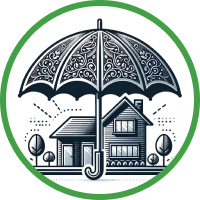
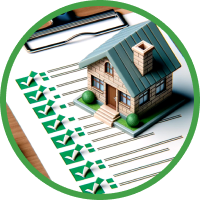
:lipstick: styling done

diff --git a/src/app/components/ServiceSection/ServiceSection.tsx b/src/app/components/ServiceSection/ServiceSection.tsx
@@ -2,6 +2,8 @@ import { theme } from 'antd';
 import Card from '@/app/components/common/Card';
 import Image from 'next/image';
 import styles from './serviceSection.module.css';
+import global from '@/app/page.module.css';
+import { CSSProperties } from 'react';
 
 const { useToken } = theme;
 
@@ -11,41 +13,53 @@ type ServiceItemProps = {
   image: string;
   highlightCtaTextIndex: number;
   ctaText: string[];
+  className?: string;
 };
 
 function ServiceItem(props: ServiceItemProps) {
   const { token } = useToken();
   const descriptionSplitted = props.description.split('\n');
   return (
-    <div className={`${styles.alignCenter} ${styles.marginH}`}>
-      <div className={styles.alignCenter}>
-        <Image
-          src={props.image}
-          alt={props.title}
-          width={60}
-          height={60}
-          priority
-          unoptimized={true}
-        />
-        <h3>{props.title}</h3>
+    <>
+      {props.title !== 'Gestion complète' && <div className={styles.divider} />}
+      <div
+        className={`${styles.alignCenter} ${styles.marginH} ${props.className}`}
+      >
+        <div className={styles.alignCenter}>
+          <Image
+            src={props.image}
+            alt={props.title}
+            width={120}
+            height={120}
+            priority
+            unoptimized={true}
+          />
+          <h3>{props.title}</h3>
+        </div>
+        <div>
+          {descriptionSplitted.map((element, index) => {
+            return <p key={index}>{element}</p>;
+          })}
+        </div>
+        <span className={`${styles.alignCenter} ${styles.comText}`}>
+          {props.ctaText.map((text, index) => {
+            if (index === props.highlightCtaTextIndex) {
+              return (
+                <span
+                  key={index}
+                  style={{ color: token.colorPrimary }}
+                  className={styles.highlightText}
+                >
+                  {text}
+                </span>
+              );
+            } else {
+              return <span key={index}>{text}</span>;
+            }
+          })}
+        </span>
       </div>
-      <div>
-        {descriptionSplitted.map((element, index) => {
-          return <p key={index}>{element}</p>;
-        })}
-      </div>
-      {props.ctaText.map((text, index) => {
-        if (index === props.highlightCtaTextIndex) {
-          return (
-            <span key={index} style={{ color: token.colorPrimary }}>
-              {text}
-            </span>
-          );
-        } else {
-          return <span key={index}>{text}</span>;
-        }
-      })}
-    </div>
+    </>
   );
 }
 
@@ -56,8 +70,9 @@ export default function ServiceSection() {
       description:
         'On s’occupe de tout sur votre location courte durée.\nMis en place de l’annonce, gestion des voyageurs, ménage des appartements, reparations et entretiens.\nGagnez plus d’argent et plus de tranquilité ! ',
       highlightCtaTextIndex: 0,
-      ctaText: ['25%', 'des loyers ( frais de ménage décomptés )'],
+      ctaText: ['20%', 'des loyers ( frais de ménage décomptés )'],
       image: '/manage.png',
+      className: styles.displayWithFade1,
     },
     {
       title: 'Sous-Location',
@@ -70,6 +85,7 @@ export default function ServiceSection() {
         'de vos loyers sans frais de gestion de notre part',
       ],
       image: '/sousloc.png',
+      className: styles.displayWithFade2,
     },
     {
       title: 'Accompagnement',
@@ -78,15 +94,31 @@ export default function ServiceSection() {
       highlightCtaTextIndex: -1,
       ctaText: ['Contactez-nous pour avoir un devis'],
       image: '/consulting.png',
+      className: styles.displayWithFade3,
     },
   ];
 
   return (
     <>
-      <Card marginTopPositionIgnored={true}>
-        <p>Quels sont nos services</p>
+      <Card
+        containerStyle={{
+          width: '80%',
+          marginTop: 0,
+          alignSelf: 'center',
+        }}
+        cardStyle={{
+          padding: 0,
+        }}
+      >
+        <p className={`${styles.alignCenter} ${global.sectionTitle}`}>
+          Quels sont nos services
+        </p>
       </Card>
-      <Card marginTopPositionIgnored={true}>
+      <Card
+        containerStyle={{
+          marginTop: 0,
+        }}
+      >
         <div className={styles.servicesContainer}>
           {services.map((service, index) => (
             <ServiceItem
@@ -96,6 +128,7 @@ export default function ServiceSection() {
               image={service.image}
               highlightCtaTextIndex={service.highlightCtaTextIndex}
               ctaText={service.ctaText}
+              className={service.className}
             />
           ))}
         </div>

diff --git a/src/app/components/ServiceSection/servicesection.module.css b/src/app/components/ServiceSection/servicesection.module.css
@@ -2,9 +2,9 @@
     display: flex;
     flex: 1;
     flex-direction: row;
-    align-items: center;
-    justify-content: flex-start;
+    align-items: flex-start;
 }
+
 .alignCenter {
     display: flex;
     flex: 1;
@@ -14,6 +14,23 @@
 .marginH {
     margin-left: 1rem;
     margin-right: 1rem;
+    align-self: stretch;
+}
+.highlightText {
+    font-size: 1.5rem;
+    font-weight: bold;
+}
+.comText {
+    text-align: center;
+    justify-content: flex-end;
+    padding-bottom: 2rem;
+    width: 80%;
+}
+.divider {
+    width: 1px;
+    align-self: stretch;
+    background-color: var(--secondary);
+    margin: 1rem;
 }
 @media (max-width: 900px) {
     .servicesContainer {
@@ -22,4 +39,31 @@
     .marginH {
         margin-top: 1rem;
     }
+    .divider {
+        display: none;
+    }
 }
+.displayWithFade1, .displayWithFade2, .displayWithFade3 {
+    opacity: 0;
+    animation-name: fadeIn;
+    animation-duration: 2s;
+    animation-fill-mode: forwards;
+}
+.displayWithFade1 {
+    animation-delay: 0.5s;
+}
+.displayWithFade2 {
+    animation-delay: 1s;
+}
+.displayWithFade3 {
+    animation-delay: 1.5s;
+}
+@keyframes fadeIn {
+    from {
+        opacity: 0;
+    }
+    to {
+        opacity: 1;
+    }
+}
+

diff --git a/src/app/components/common/Card.tsx b/src/app/components/common/Card.tsx
@@ -1,20 +1,30 @@
 import global from '@/app/page.module.css';
 import styles from './card.module.css';
+import { CSSProperties } from 'react';
+
 type CardProps = {
   children: React.ReactNode;
-  marginTopPositionIgnored?: boolean;
+  containerStyle?: CSSProperties | undefined;
+  cardStyle?: CSSProperties | undefined;
 };
 export default function Card(props: CardProps) {
-  const { children, marginTopPositionIgnored } = props;
+  const { children, cardStyle, containerStyle } = props;
 
   return (
     <div
       className={`${global.center} ${styles.section}`}
       style={{
-        marginTop: marginTopPositionIgnored ? 0 : '-2rem',
+        ...containerStyle,
       }}
     >
-      <div className={`${global.card} ${styles.cardContainer}`}>{children}</div>
+      <div
+        className={`${global.card} ${styles.cardContainer}`}
+        style={{
+          ...cardStyle,
+        }}
+      >
+        {children}
+      </div>
     </div>
   );
 }

diff --git a/src/app/page.module.css b/src/app/page.module.css
@@ -18,18 +18,10 @@
   transition: background 200ms, border 200ms;
 }
 
-.description {
-  display: inherit;
-  justify-content: inherit;
-  align-items: inherit;
-  font-size: 0.85rem;
-  max-width: var(--max-width);
-  color: var(--secondary);
-  width: 100%;
-  z-index: 2;
-  font-family: var(--font-mono);
+.sectionTitle {
+  font-weight: bold;
+  font-size: 1.5rem;
 }
-
 /* Mobile */
 @media (max-width: 900px) {
 }

diff --git a/src/app/components/common/card.module.css b/src/app/components/common/card.module.css
@@ -1,6 +1,7 @@
 .section {
     display: flex;
     padding-bottom: 2rem;
+    margin-top: -2rem;
 }
 
 .cardContainer {
@@ -8,5 +9,6 @@
     flex: 1;
     margin-left: 1rem;
     margin-right: 1rem;
+    padding: 2rem;
     flex-direction: column;
 }
